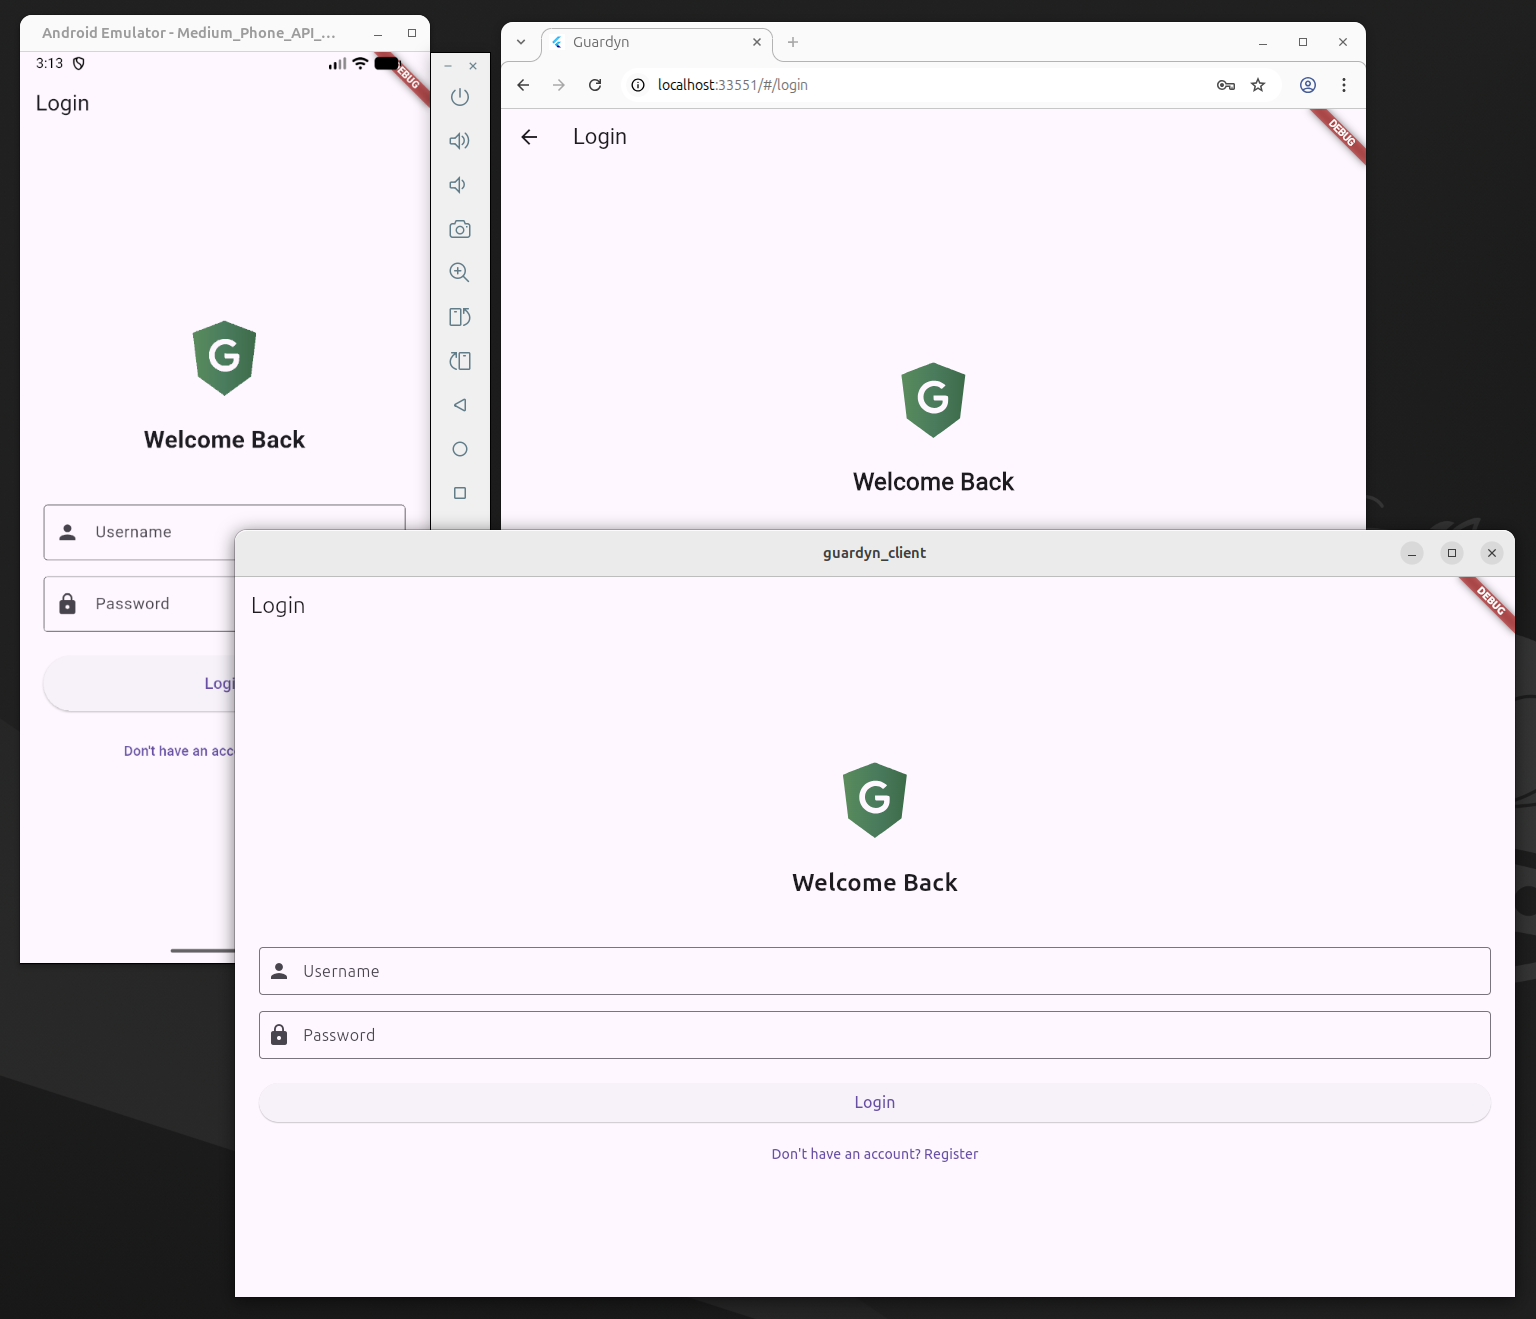
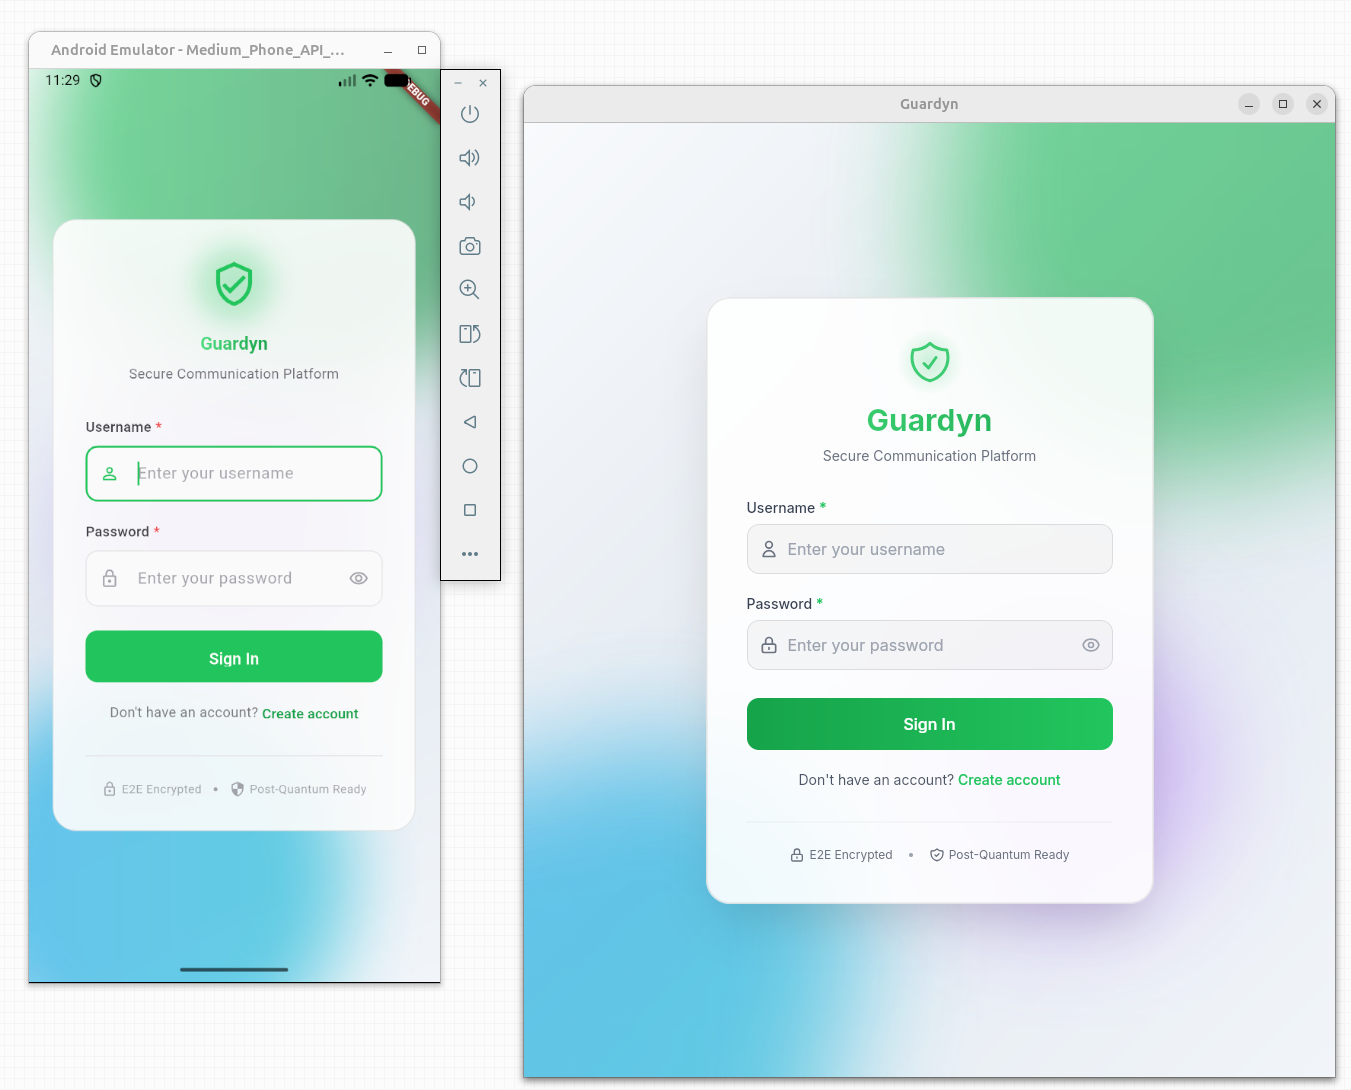
fix(auth): adjust blur effect for gradient orbs
Modify blurSigma values for gradient orbs to achieve a
softer edge effect that aligns with the desktop design.
This change enhances the visual consistency across
different themes.

diff --git a/client-mobile/lib/features/auth/presentation/widgets/auth_layout.dart b/client-mobile/lib/features/auth/presentation/widgets/auth_layout.dart
@@ -199,33 +199,24 @@ class _Orb extends StatelessWidget {
   @override
   Widget build(BuildContext context) {
     final isDark = Theme.of(context).brightness == Brightness.dark;
-    final blurSigma = isDark ? 80.0 : 60.0;
+    // Match CSS filter: blur(60px) - sigma ~= blur/2 for similar visual effect
+    // But we need higher values for truly soft edges like desktop
+    final blurSigma = isDark ? 60.0 : 50.0;
 
     return Opacity(
       opacity: opacity,
-      child: Container(
-        width: size,
-        height: size,
-        decoration: BoxDecoration(
-          shape: BoxShape.circle,
-          gradient: gradient,
-          boxShadow: [
-            BoxShadow(
-              color: (gradient as LinearGradient).colors.first.withValues(
-                alpha: 0.3,
-              ),
-              blurRadius: blurSigma,
-              spreadRadius: blurSigma / 2,
-            ),
-          ],
+      child: ImageFiltered(
+        imageFilter: ImageFilter.blur(
+          sigmaX: blurSigma,
+          sigmaY: blurSigma,
+          tileMode: TileMode.decal,
         ),
-        child: ImageFiltered(
-          imageFilter: ImageFilter.blur(sigmaX: blurSigma, sigmaY: blurSigma),
-          child: Container(
-            decoration: BoxDecoration(
-              shape: BoxShape.circle,
-              gradient: gradient,
-            ),
+        child: Container(
+          width: size,
+          height: size,
+          decoration: BoxDecoration(
+            shape: BoxShape.circle,
+            gradient: gradient,
           ),
         ),
       ),